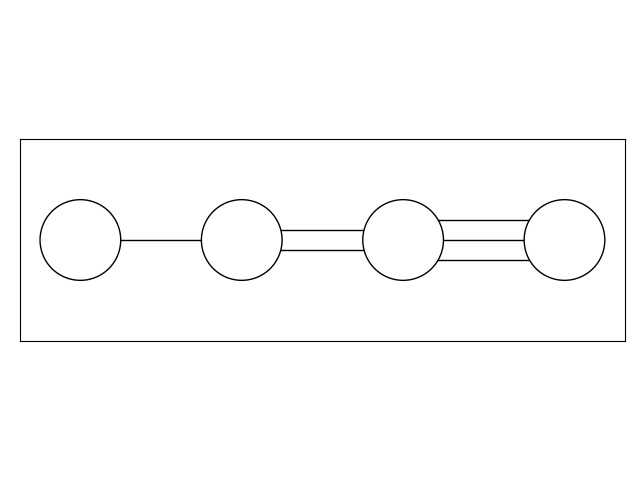
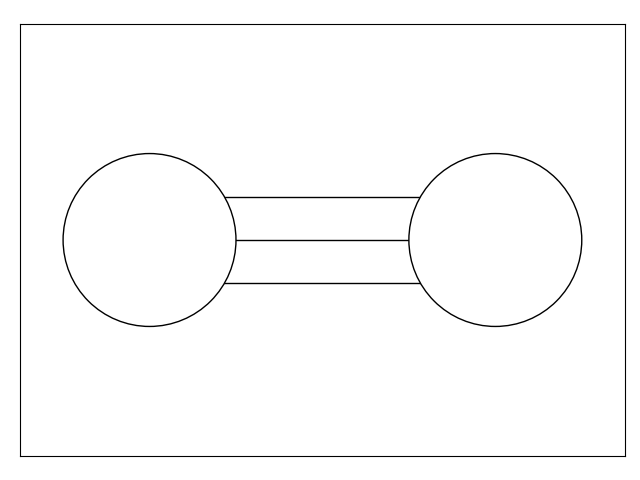
Dynkin Diagram Done

diff --git a/Semisimple/DynkinDraw.py b/Semisimple/DynkinDraw.py
@@ -58,12 +58,13 @@ by initializing it or at a later stage using set_root_sys method\n\n')
                         if adjnode == -1 and self.rootsys.cartan_matrix[i][row] == -1:
                             layer_adj_list[i] = 1
                         elif adjnode == -1:
-                            layer_adj_list[i] = -1 * self.rootsys.cartan_matrix[i][row]
+                            layer_adj_list[i] = self.rootsys.cartan_matrix[i][row]
                         else:
                             layer_adj_list[i] = -1 * adjnode
             if not count == 0:
                 breadthy_dia_num = breadthy_dia_num * count
             adjlist[row] = layer_adj_list
+            adjlist[row]['layer'] = 0 # Will be updated later
 
         notEnd = True
         length_dia_num = 1
@@ -73,6 +74,9 @@ by initializing it or at a later stage using set_root_sys method\n\n')
             newlistofkeys = []
             for keystosearch in listofkeys:
                 for akey in adjlist[keystosearch].keys():
+                    adjlist[keystosearch]['layer'] = length_dia_num
+                    if akey == 'layer':
+                        continue
                     newlistofkeys.append(akey)
                     if akey in adjlist.keys():
                         notEnd = True
@@ -84,6 +88,8 @@ by initializing it or at a later stage using set_root_sys method\n\n')
         self.adjlist = adjlist
         self.breadth_num = breadthy_dia_num
         self.length_num = length_dia_num
+        
+        return self.adjlist, self.breadth_num, self.length_num
 
     def make_fig(self, linecol = 'k', fillcol = 'w'):
         '''
@@ -95,7 +101,7 @@ by initializing it or at a later stage using set_root_sys method\n\n')
         # Find length and heigth
         maxy = 0.5 * self.breadth_num # Proportional to side ways expansion
         lowx = -0.3 # Fixed as diagram expands rightwards
-        maxx = 2.7 # Based on horizontal expansion
+        maxx = 0.3 + 0.8 * (self.length_num - 1) # Based on horizontal expansion
 
 
         # make the figure
@@ -110,24 +116,42 @@ by initializing it or at a later stage using set_root_sys method\n\n')
 
         # Loop over the adjecency list to draw dynkin diagram
         reflines = [0]
-        list_of_points = []
-        for i in range(len(self.adjlist)):
-            newreflines = []
-            minstep = None # Make stuff
+        list_of_points = [(0, 0)]
+        y_range = {0: (maxy, -maxy)}
+        i = 0
+        for keybase, valbase in self.adjlist.items():
+            startx = 0.8 * (self.adjlist[i]['layer'] - 1)
+            endx = 0.8 * self.adjlist[i]['layer']
+            upper_y = y_range[keybase][0]
+            lower_y = y_range[keybase][1]
+            ref = (upper_y + lower_y) / 2.
+            num_nodes_next = len(self.adjlist[i]) - 1
+            if num_nodes_next == 0:
+                continue
+            step = (upper_y - lower_y) / num_nodes_next
+            start = upper_y - step / 2.
+            j = 0
+            for key, values in self.adjlist[i].items():
+                if key == 'layer':
+                    continue
+                if abs(values) == 1:
+                    ax.add_patch(pc.PathPatch(pc.Path([(startx, ref), (endx, start - step * j)])))
+                if abs(values) == 2:
+                    ax.add_patch(pc.PathPatch(pc.Path([(startx, ref+0.05), (endx, start + 0.05 - step * j)])))
+                    ax.add_patch(pc.PathPatch(pc.Path([(startx, ref-0.05), (endx, start - 0.05 - step * j)])))
+                if abs(values) == 3:
+                    ax.add_patch(pc.PathPatch(pc.Path([(startx, ref), (endx, start - step * j)])))
+                    ax.add_patch(pc.PathPatch(pc.Path([(startx, ref-0.1), (endx, start - 0.1 - step * j)])))
+                    ax.add_patch(pc.PathPatch(pc.Path([(startx, ref+0.1), (endx, start + 0.1 - step * j)])))
 
-
-        ax.add_patch(pc.PathPatch(pc.Path([(0, 0), (0.8, 0)])))
-        ax.add_patch(pc.PathPatch(pc.Path([(0.8, -0.05), (1.6, -0.05)])))
-        ax.add_patch(pc.PathPatch(pc.Path([(0.8, 0.05), (1.6, 0.05)])))
-        ax.add_patch(pc.PathPatch(pc.Path([(1.6, 0.), (2.4, 0)])))
-        ax.add_patch(pc.PathPatch(pc.Path([(1.6, -0.1), (2.4, -0.1)])))
-        ax.add_patch(pc.PathPatch(pc.Path([(1.6, 0.1), (2.4, 0.1)])))
+                y_range[key] = (upper_y, upper_y - step * num_nodes_next)
+                list_of_points.append((endx, start - step * j))
+                j += 1
+            
+            i += 1
 
         for point in list_of_points:
             ax.add_patch(pc.Circle(point, 0.2, edgecolor=linecol, facecolor=fillcol))
-        # ax.add_patch(pc.Circle((0.8, 0), 0.2, edgecolor='k', facecolor='w'))
-        # ax.add_patch(pc.Circle((1.6, 0), 0.2, edgecolor='k', facecolor='w'))
-        # ax.add_patch(pc.Circle((2.4, 0), 0.2, edgecolor='k', facecolor='w'))
 
         self.ax = ax
         self.fig = fig
